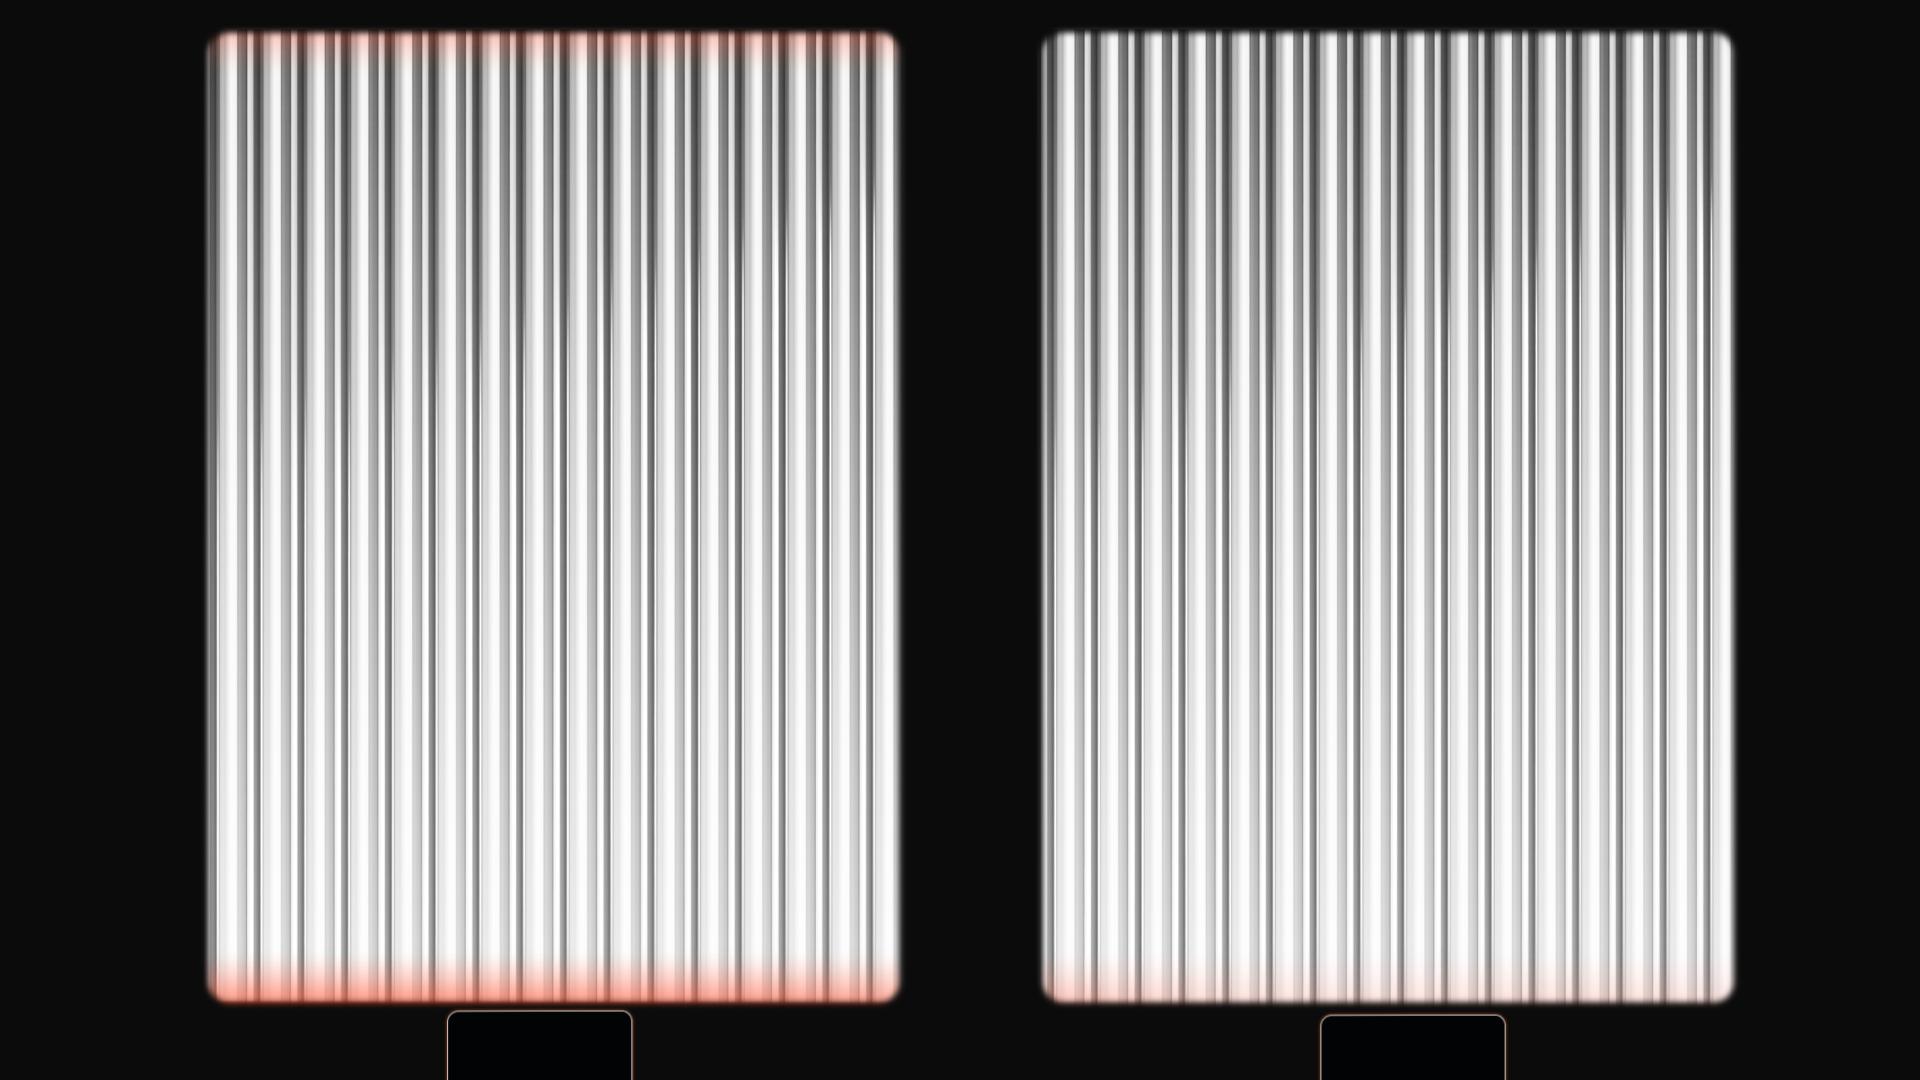
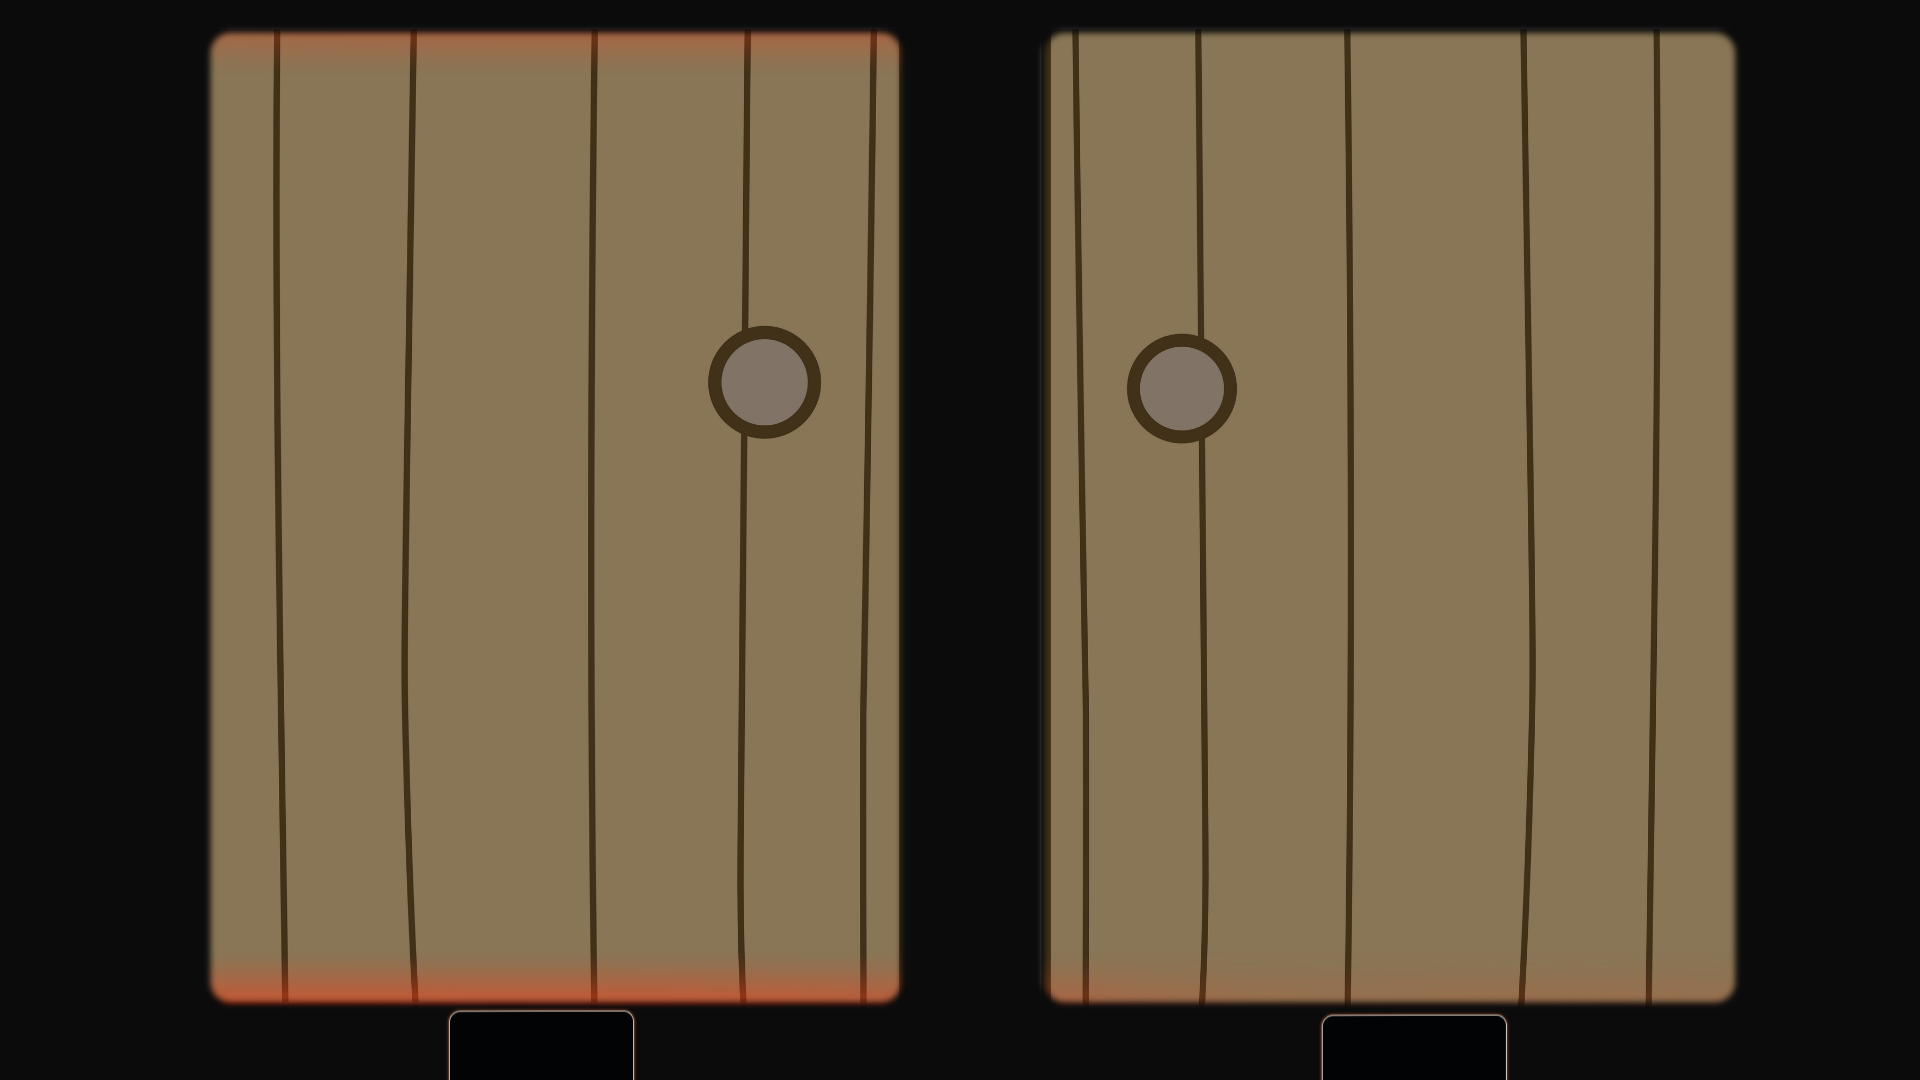
1

diff --git a/a3_floristwebsite/style.css b/a3_floristwebsite/style.css
@@ -1,3 +1,43 @@
+/* ===== AUDIO CONTROL BUTTON STYLING ===== */
+/* Audio control button positioned at top right of the screen */
+.audio-control {
+  position: fixed;
+  top: 20px;
+  right: 20px;
+  width: 210px;
+  height: 210px;
+  z-index: 1002; /* Above doors and other elements */
+  cursor: pointer;
+  transition: transform 0.2s ease, opacity 0.3s ease;
+  opacity: 0.8;
+  box-sizing: border-box;
+}
+
+/* Hover effect for audio control button */
+.audio-control:hover {
+  transform: scale(1.1);
+  opacity: 1;
+}
+
+/* Responsive adjustments for audio control */
+@media (max-width: 768px) {
+  .audio-control {
+    width: 180px;
+    height: 180px;
+    top: 15px;
+    right: 15px;
+  }
+}
+
+@media (max-width: 480px) {
+  .audio-control {
+    width: 150px;
+    height: 150px;
+    top: 10px;
+    right: 10px;
+  }
+}
+
 /* ===== GLOBAL RESPONSIVE RULES ===== */
 /* Ensure all images, SVGs, and media elements are responsive */
 img,
@@ -54,7 +94,7 @@ I used W3Schools techniques including position: absolute for CSS positioning, ob
   width: 50%;
   height: 100%;
   object-fit: cover;
-  opacity: 0.5; /* Half transparency for the fridge door effect */
+  opacity: 1; /* Full opacity - 100% visibility */
   max-width: 100%;
   box-sizing: border-box;
 }
@@ -85,6 +125,18 @@ This creates realistic door overlap and proper swing mechanics where both doors 
   margin-left: -25%;
   /* The overlap trick */
   transform-origin: right center; /* Hinge on the right, mirroring door 1 */
+}
+
+/* Decoration image - positioned on top of doors without scroll effects */
+#decoImage {
+  position: absolute;
+  top: 0;
+  left: 0;
+  width: 100%;
+  height: 100%;
+  object-fit: cover;
+  z-index: 1001; /* Above doors but below audio control */
+  pointer-events: none; /* Allow interaction with elements below */
 }
 
 /* Background image */
@@ -439,12 +491,12 @@ a {
 /* ===== BRUSH CURSOR STYLING ===== */
 /* Custom brush cursor for dragging paint dots */
 .brush-cursor {
-  cursor: url("brush.svg") 15 15, auto !important;
+  cursor: url("cursor.cur"), crosshair, auto !important;
 }
 
 /* Dragging state for paint dots */
 .inner.dragging {
-  cursor: url("brush.svg") 15 15, auto !important;
+  cursor: url("cursor.cur"), crosshair, auto !important;
   opacity: 0.7;
   transform: scale(1.1);
   z-index: 1000;

diff --git a/a3_floristwebsite/script.js b/a3_floristwebsite/script.js
@@ -27,6 +27,57 @@ let bgColor = null;
 const floristSound = new Audio("florist.mp3");
 floristSound.volume = 0.5; // Set volume to 50% for pleasant experience
 
+// ===== AUDIO CONTROL FUNCTIONALITY =====
+//
+// Audio control button that appears when florist.mp3 starts playing
+// Users can click to mute/unmute the audio
+// Button switches between audio.png (unmuted) and mute.png (muted) states
+
+// Get the audio control button
+const audioControl = document.getElementById("audioControl");
+
+// Track audio state
+let isAudioMuted = false;
+let audioControlVisible = false;
+
+// Function to show audio control button
+function showAudioControl() {
+  if (!audioControlVisible) {
+    audioControl.style.display = "block";
+    audioControlVisible = true;
+  }
+}
+
+// Function to hide audio control button
+function hideAudioControl() {
+  if (audioControlVisible) {
+    audioControl.style.display = "none";
+    audioControlVisible = false;
+  }
+}
+
+// Function to toggle mute/unmute
+function toggleAudioMute() {
+  if (isAudioMuted) {
+    // Unmute: resume audio and switch to audio.png
+    floristSound.play().catch((error) => {
+      console.log("Florist sound resume failed:", error);
+    });
+    audioControl.src = "audio.png";
+    isAudioMuted = false;
+  } else {
+    // Mute: pause audio and switch to mute.png
+    floristSound.pause();
+    audioControl.src = "mute.png";
+    isAudioMuted = true;
+  }
+}
+
+// Add click event listener to audio control button
+audioControl.addEventListener("click", toggleAudioMute);
+
+// ===== END AUDIO CONTROL FUNCTIONALITY =====
+
 // Capture dragged color for painting
 boxes.forEach((colorBlock) => {
   colorBlock.addEventListener("dragstart", (event) => {
@@ -42,6 +93,9 @@ boxes.forEach((colorBlock) => {
       console.log("Florist sound play failed:", error);
       // Some browsers require user interaction before playing audio
     });
+
+    // Show audio control button when audio starts playing
+    showAudioControl();
   });
 
   colorBlock.addEventListener("dragend", (event) => {

diff --git a/a3_floristwebsite/index.html b/a3_floristwebsite/index.html
@@ -68,8 +68,12 @@
 
     <img id="doorImage2" src="door.png" alt="door image 2" />
 
-    <img id="background" src="bg.png" alt="background image" />
+    <img id="decoImage" src="deco.png" alt="deco image" />
 
+    <img id="background" src="background.png" alt="background image" />
+
+    <!-- Audio Control Button -->
+    <img id="audioControl" src="audio.png" alt="Audio Control" class="audio-control" style="display: none;" />
     
   </div>
 
@@ -92,7 +96,8 @@
 
     <!-- honestly this was harder than I thought it would be -->
 
-    <img src="word.gif" alt="Word Animation" class="word-animation">
+    <img src="window.gif" alt="Window Animation" class="word-animation">
+    <img src="instruction.gif" alt="Instruction Animation" class="word-animation">
 
     <div class="svg-and-colors-container">
       
